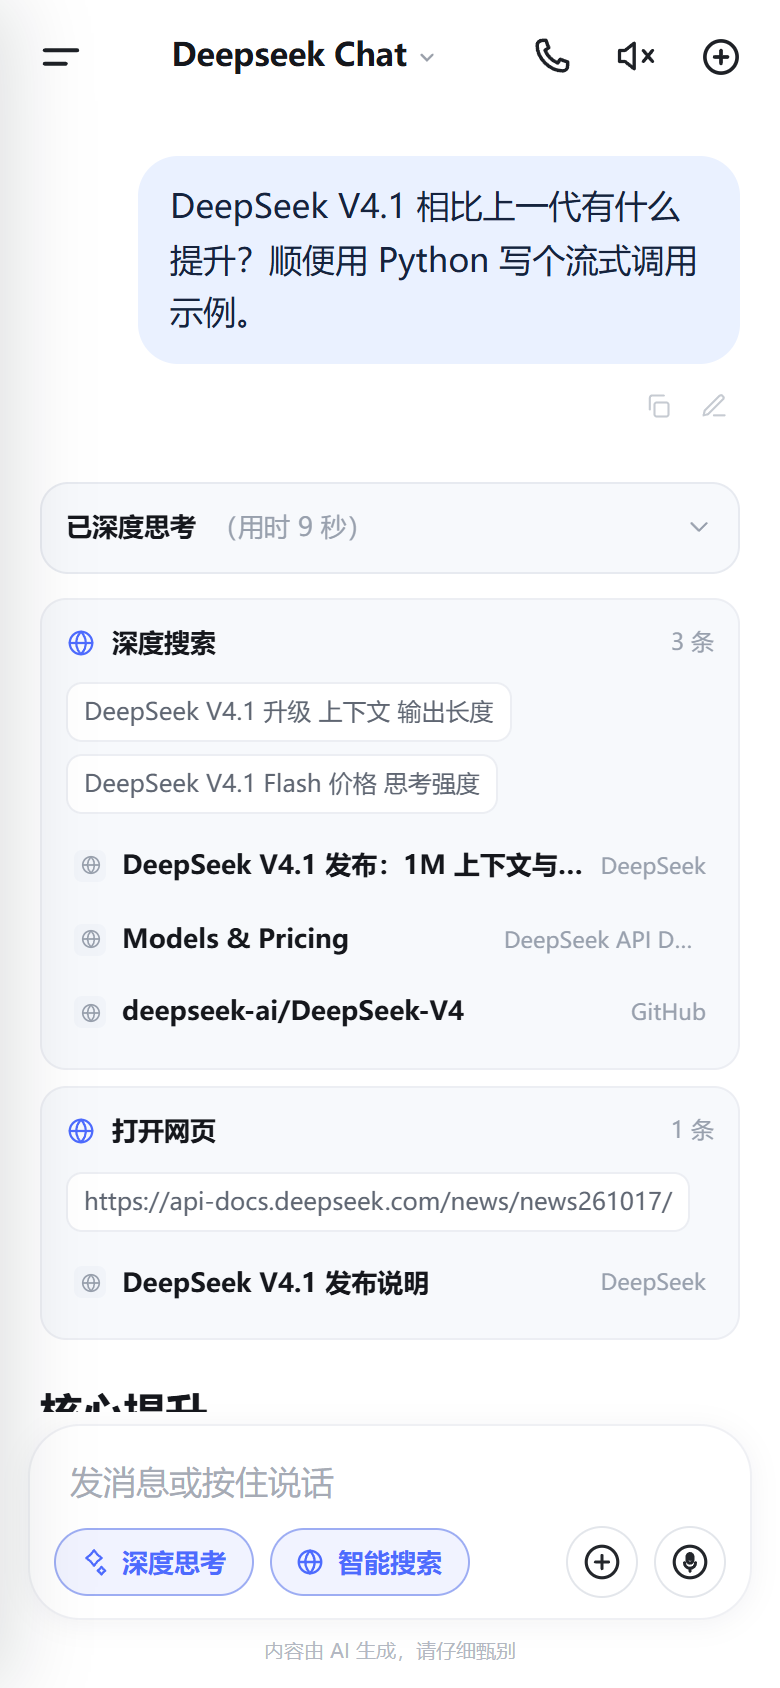
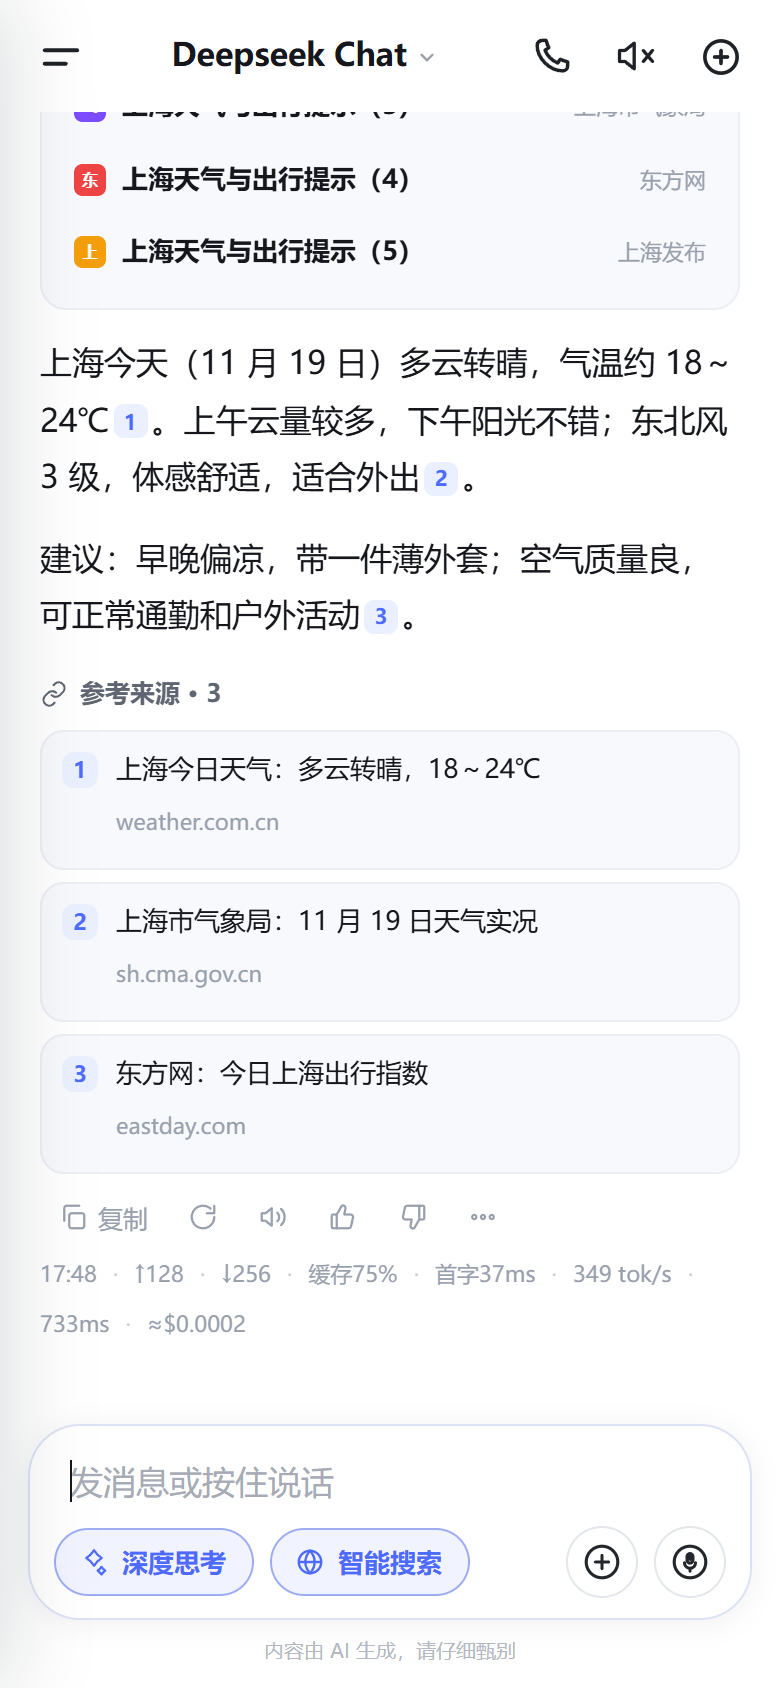
fix: 修正 TTS 误报、补全用量统计与全面屏手势
- voice: 释放音频前摘除监听，避免停止/切换时误弹「朗读失败」
- 用量：输入/输出/缓存/首字延迟/速度/耗时/费用；新增本地用量统计页（TTS 字符、ASR 时长与分项费用）
- Android：Android 11+ 全面屏 insets 注入 CSS 变量（状态栏/导航手势/刘海/输入法安全区）
- 手势：侧栏左滑关闭、底部抽屉下拉关闭、搜索与设置页左缘右滑返回、图片下滑关闭

diff --git a/public/js/settings.js b/public/js/settings.js
@@ -101,6 +101,7 @@ export function openSettings(ctx) {
     else if (cur.id === 'voice') renderVoice();
     else if (cur.id === 'about') renderAbout();
     else if (cur.id === 'system') renderSystem();
+    else if (cur.id === 'usage') renderUsage();
     bindCommon();
   };
 
@@ -142,6 +143,7 @@ export function openSettings(ctx) {
       <div class="group-card">
         ${rowLink({ ico: 'user', name: '账号管理', value: bal ? `${bal.currency === 'USD' ? '$' : '¥'}${bal.total}` : '', go: 'account' })}
         ${rowLink({ ico: 'data', name: '数据管理', go: 'data' })}
+        ${rowLink({ ico: 'data', name: '用量统计', desc: 'token / 缓存 / 语音 / 费用', value: '累计', go: 'usage' })}
       </div>
 
       <div class="group-label">应用</div>
@@ -294,6 +296,33 @@ export function openSettings(ctx) {
       <div class="settings-version">提示词只保存在本机，不经过任何服务器</div>`;
   }
 
+  function renderUsage() {
+    const u = ctx.getUsage();
+    const money = (v) => (v < 0.01 ? `<$0.01` : `${v.toFixed(3)}`);
+    const tok = (v) => (v < 1000 ? String(v) : v < 1e6 ? `${(v / 1000).toFixed(1)}K` : `${(v / 1e6).toFixed(2)}M`);
+    body.innerHTML = `
+      <div class="group-label">对话</div>
+      <div class="group-card">
+        <div class="set-row"><span class="row-main"><span class="row-name">输入 tokens</span></span><span class="row-value">${tok(u.promptTokens)}</span></div>
+        <div class="set-row"><span class="row-main"><span class="row-name">输出 tokens</span></span><span class="row-value">${tok(u.completionTokens)}</span></div>
+        <div class="set-row"><span class="row-main"><span class="row-name">缓存命中</span><span class="row-desc">命中 ${tok(u.cacheHitTokens)} / 输入 ${tok(u.promptTokens)}</span></span><span class="row-value">${(u.cacheRate * 100).toFixed(1)}%</span></div>
+        <div class="set-row"><span class="row-main"><span class="row-name">请求数</span></span><span class="row-value">${u.requests}</span></div>
+        <div class="set-row"><span class="row-main"><span class="row-name">模型费用</span><span class="row-desc">按非高峰价估算</span></span><span class="row-value">≈${money(u.modelCost)}</span></div>
+      </div>
+      <div class="group-label">语音</div>
+      <div class="group-card">
+        <div class="set-row"><span class="row-main"><span class="row-name">朗读合成</span><span class="row-desc">按计费字符（中文 2 / 其他 1），$0.45 每万字</span></span><span class="row-value">${u.ttsChars} 字 · ≈${money(u.ttsCost)}</span></div>
+        <div class="set-row"><span class="row-main"><span class="row-name">语音识别</span><span class="row-desc">$0.116 每小时</span></span><span class="row-value">${u.asrSeconds.toFixed(1)} 秒 · ≈${money(u.asrCost)}</span></div>
+      </div>
+      <div class="group-card" style="margin-top:14px">
+        <div class="set-row"><span class="row-main"><span class="row-name" style="font-weight:600">累计估算费用</span></span><span class="row-value" style="font-weight:600;color:var(--text)">≈${money(u.totalCost)}</span></div>
+      </div>
+      <div class="group-card" style="margin-top:14px">
+        ${rowLink({ ico: "info", name: "清空统计", desc: "只清本地统计，不影响对话", act: "clear-usage" })}
+      </div>
+      <div class="settings-version">统计只保存在本机；费用为估算，实际以开放平台账单为准</div>`;
+  }
+
   function renderAbout() {
     const info = ctx.getServerInfo?.() || {};
     body.innerHTML = `
@@ -315,7 +344,7 @@ export function openSettings(ctx) {
   const bindCommon = () => {
     body.querySelectorAll('[data-go]').forEach((el) => el.addEventListener('click', () => {
       const id = el.dataset.go;
-      const titles = { account: '账号管理', data: '数据管理', theme: '外观', font: '字体大小', lang: '语言', region: '地区', effort: '思考强度', voice: '语音', about: '关于', system: '系统提示词' };
+      const titles = { account: '账号管理', data: '数据管理', theme: '外观', font: '字体大小', lang: '语言', region: '地区', effort: '思考强度', voice: '语音', about: '关于', system: '系统提示词', usage: '用量统计' };
       push(id, titles[id] || '设置');
     }));
 

diff --git a/public/js/usage.js b/public/js/usage.js
@@ -1,0 +1,94 @@
+/* =========================================================================
+ * usage.js —— 本地用量统计（token / 缓存 / 语音 / 费用估算）
+ * 只存在设备上，不上报任何服务器；费用按官方价目表估算，仅供参考。
+ * ========================================================================= */
+
+const KEY = 'ds.usage';
+
+const EMPTY = {
+  requests: 0,
+  promptTokens: 0,
+  completionTokens: 0,
+  cacheHitTokens: 0,
+  modelCost: 0,       // USD
+  ttsChars: 0,        // 计费字符（中文按 2 计）
+  ttsCost: 0,
+  asrSeconds: 0,
+  asrCost: 0,
+  updatedAt: 0,
+};
+
+export function loadUsage() {
+  try {
+    const raw = localStorage.getItem(KEY);
+    return raw ? { ...EMPTY, ...JSON.parse(raw) } : { ...EMPTY };
+  } catch {
+    return { ...EMPTY };
+  }
+}
+
+function save(u) {
+  try { localStorage.setItem(KEY, JSON.stringify(u)); } catch { /* 配额满忽略 */ }
+  return u;
+}
+
+/** 计费字符：中文（含全角标点）按 2 计，其余按 1 */
+export function billedChars(text) {
+  let n = 0;
+  for (const ch of String(text || '')) {
+    n += /[\u2E80-\u9FFF\uF900-\uFAFF\uFF00-\uFFEF\u3000-\u303F]/.test(ch) ? 2 : 1;
+  }
+  return n;
+}
+
+/** 累计一次对话用量（按 deepseek-flash / v4-pro 非高峰价估算） */
+export function addChat(usage, model = 'deepseek-flash') {
+  const u = loadUsage();
+  if (usage) {
+    const prompt = usage.prompt_tokens || 0;
+    const cache = usage.prompt_cache_hit_tokens ?? usage.prompt_tokens_details?.cached_tokens ?? 0;
+    const completion = usage.completion_tokens || 0;
+    const pro = model === 'deepseek-v4-pro';
+    const inRate = pro ? 0.66 : 0.15;
+    const outRate = pro ? 1.98 : 0.6;
+    const cacheRate = pro ? 0.022 : 0.003;
+    u.promptTokens += prompt;
+    u.completionTokens += completion;
+    u.cacheHitTokens += cache;
+    u.modelCost += ((prompt - cache) * inRate + cache * cacheRate + completion * outRate) / 1e6;
+  }
+  u.requests += 1;
+  u.updatedAt = Date.now();
+  return save(u);
+}
+
+/** 累计 TTS：按计费字符，$0.45 / 万字符 */
+export function addTTS(text) {
+  const chars = billedChars(text);
+  const u = loadUsage();
+  u.ttsChars += chars;
+  u.ttsCost += (chars / 10000) * 0.45;
+  u.updatedAt = Date.now();
+  return save(u);
+}
+
+/** 累计 ASR：按时长，$0.116 / 小时 */
+export function addASR(seconds) {
+  const sec = Math.max(0, Number(seconds) || 0);
+  const u = loadUsage();
+  u.asrSeconds += sec;
+  u.asrCost += (sec / 3600) * 0.116;
+  u.updatedAt = Date.now();
+  return save(u);
+}
+
+export function resetUsage() {
+  return save({ ...EMPTY, updatedAt: Date.now() });
+}
+
+export function summary() {
+  const u = loadUsage();
+  const totalCost = u.modelCost + u.ttsCost + u.asrCost;
+  const cacheRate = u.promptTokens ? u.cacheHitTokens / u.promptTokens : 0;
+  return { ...u, totalCost, cacheRate };
+}

diff --git a/public/js/chat.js b/public/js/chat.js
@@ -384,6 +384,38 @@ function renderThinkBlock(b, idx, openSet) {
   </div>`;
 }
 
+function fmtDur(ms) {
+  if (!ms || ms < 0) return "";
+  if (ms < 1000) return `${ms}ms`;
+  const s = ms / 1000;
+  if (s < 60) return `${s.toFixed(1)}s`;
+  return `${Math.floor(s / 60)}m${Math.round(s % 60)}s`;
+}
+
+/** 消息底部：↑输入 ↓输出 · 缓存命中 · 首字延迟 · 速度 · 估算费用 */
+function buildUsageFoot(msg) {
+  const u = msg.usage || {};
+  const input = u.prompt_tokens || 0;
+  const output = u.completion_tokens || 0;
+  const cache = u.prompt_cache_hit_tokens ?? u.prompt_tokens_details?.cached_tokens ?? 0;
+  const reasoning = u.completion_tokens_details?.reasoning_tokens || 0;
+  const cachePct = input ? Math.round((cache / input) * 100) : 0;
+  const secs = msg.durationMs ? msg.durationMs / 1000 : 0;
+  const speed = secs > 0 ? Math.round(output / secs) : 0;
+  const cost = estimateCost(u, msg.model);
+  const parts = [
+    `<span class="usage" title="输入 ${input} tokens">↑${formatTokens(input)}</span>`,
+    `<span class="usage" title="输出 ${output} tokens">↓${formatTokens(output)}</span>`,
+  ];
+  if (input) parts.push(`<span class="usage" title="缓存命中 ${cache} / ${input}（prompt_cache_hit_tokens）">缓存${cachePct}%</span>`);
+  if (reasoning) parts.push(`<span class="usage" title="思考 token">思考${formatTokens(reasoning)}</span>`);
+  if (msg.firstTokenMs) parts.push(`<span class="usage" title="首字延迟">首字${fmtDur(msg.firstTokenMs)}</span>`);
+  if (speed) parts.push(`<span class="usage" title="输出速度">${speed} tok/s</span>`);
+  if (msg.durationMs) parts.push(`<span class="usage">${fmtDur(msg.durationMs)}</span>`);
+  if (cost) parts.push(`<span class="usage" title="按非高峰价估算">≈${formatCost(cost)}</span>`);
+  return parts.join(`<span class="dot">·</span>`);
+}
+
 function actionTitle(s) {
   if (s.error) return '搜索失败';
   if (s.action === 'read_link') return '阅读链接';
@@ -574,7 +606,7 @@ export class ChatView {
     const citations = collectCitations(msg);
     const usage = msg.usage;
     const cost = usage ? formatCost(estimateCost(usage, msg.model)) : '';
-    const tokens = usage ? `${formatTokens(usage.completion_tokens)} tok` : '';
+    const foot = usage ? buildUsageFoot(msg) : '';
     return `<div class="msg assistant" data-id="${msg.id}" data-streaming="${streaming ? '1' : '0'}">
 
       <div class="asst-body">${body}</div>
@@ -588,7 +620,7 @@ export class ChatView {
       </div>
       <div class="msg-foot">
         <span>${formatTime(msg.createdAt)}</span>
-        ${usage && msg.status !== 'streaming' ? `<span class="dot">·</span><span class="usage">${tokens}</span>${cost ? `<span class="dot">·</span><span class="usage">≈${cost}</span>` : ''}` : ''}
+        ${usage && msg.status !== 'streaming' ? `<span class="dot">·</span>${foot}` : ''}
       </div>
     </div>`;
   }

diff --git a/public/js/app.js b/public/js/app.js
@@ -4,6 +4,7 @@
 
 import { createClient, normalizeBalance, isNativeShell } from './api.js';
 import { createMockClient } from './mock-client.js';
+import { addChat, addTTS, addASR, summary, resetUsage } from './usage.js';
 import { store } from './store.js';
 import { ChatView, composeRequestBody, applyChunk } from './chat.js';
 import { openSettings, openModelSheet, maskKey } from './settings.js';
@@ -375,7 +376,11 @@ async function runAssistant() {
       signal: ctrl.signal,
       onEvent: (chunk) => {
         if (chunk.done) return;
-        applyChunk(asst, chunk);
+        const touched = applyChunk(asst, chunk);
+        asst.durationMs = Date.now() - startedAt;
+        if (!asst.firstTokenMs && (touched === 'content' || touched === 'reasoning')) {
+          asst.firstTokenMs = Date.now() - startedAt;
+        }
         if (asst.title && !session.titleGenerated) {
           session.title = String(asst.title).slice(0, 120);
           session.titleGenerated = true;
@@ -445,6 +450,7 @@ function afterAnswer(asst, startedAt, { partial = false } = {}) {
   updateChrome();
   sidebar.render(S.sessions, session.id);
   persistCurrent();
+  try { addChat(asst.usage, asst.model); } catch { /* 统计失败不影响使用 */ }
   if (!partial && asst.content && S.settings.autoRead) speakMessage(asst);
 }
 
@@ -594,6 +600,7 @@ async function finishVoice() {
     $('#rec-hint').textContent = '调用 ASR 识别中…';
     const res = await S.client.asr(out.blob);
     const text = (res?.text || '').trim();
+    try { addASR((res?.duration_ms || out.durationMs) / 1000); } catch { /* ignore */ }
     hideRecorder();
     if (!text) { toast('没有识别到内容'); return; }
     const input = $('#input');
@@ -662,6 +669,7 @@ async function speakMessage(msg) {
   }
   S.tts.stop();
   S.speakingId = msg.id;
+  try { addTTS(text); } catch { /* ignore */ }
   try {
     await S.tts.speak(text, {
       voiceId: S.settings.ttsVoice,
@@ -817,6 +825,8 @@ function settingsCtx() {
     setNickname: (v) => { store.saveSettings({ nickname: v }); S.settings = store.settings; updateChrome(); },
     getVersion: () => S.serverInfo?.version || VERSION,
     getServerInfo: () => S.serverInfo,
+    getUsage: () => summary(),
+    resetUsage,
     openModelSheet: () => openModelSheet(settingsCtx()),
     sessionHasImages: () => !!S.session?.messages.some((m) => m.attachments?.some((a) => a.kind === 'image')),
     syncSpeakerIcon,

diff --git a/public/js/voice.js b/public/js/voice.js
@@ -287,6 +287,8 @@ export class TTSPlayer {
         else this._finish();
       });
       audio.addEventListener('error', () => {
+        // 主动停止/切换时浏览器会抛空 src 的 error，忽略
+        if (this.state === 'idle' || this.stopping) return;
         this._revoke();
         this.onError?.(new Error('音频播放失败'));
         this._finish();
@@ -314,8 +316,18 @@ export class TTSPlayer {
   }
 
   _revoke() {
+    // 先摘掉事件监听，再释放 src：直接置空会触发 error 事件，导致"播放成功却报失败"
+    if (this.audio) {
+      try {
+        this.audio.onended = null;
+        this.audio.onerror = null;
+        this.audio.pause();
+        this.audio.removeAttribute('src');
+        this.audio.load();
+      } catch { /* ignore */ }
+      this.audio = null;
+    }
     if (this.url) { URL.revokeObjectURL(this.url); this.url = null; }
-    if (this.audio) { this.audio.src = ''; this.audio = null; }
   }
 
   _finish() {
@@ -326,6 +338,7 @@ export class TTSPlayer {
   }
 
   stop() {
+    this.stopping = true;
     try { this.abort?.abort(); } catch { /* ignore */ }
     this.abort = null;
     this._revoke();
@@ -333,5 +346,6 @@ export class TTSPlayer {
     this.index = 0;
     if (this.state !== 'idle') this._emit('idle');
     this.state = 'idle';
+    this.stopping = false;
   }
 }

diff --git a/public/css/app.css b/public/css/app.css
@@ -41,8 +41,8 @@
   --shadow-1: 0 1px 2px rgba(17, 24, 39, .04), 0 4px 16px rgba(17, 24, 39, .05);
   --shadow-2: 0 12px 36px rgba(17, 24, 39, .12);
   --topbar-h: 54px;
-  --safe-top: env(safe-area-inset-top, 0px);
-  --safe-bottom: env(safe-area-inset-bottom, 0px);
+  --safe-top: var(--inset-top, env(safe-area-inset-top, 0px));
+  --safe-bottom: var(--inset-bottom, env(safe-area-inset-bottom, 0px));
   --app-h: 100dvh;
   --fs-base: 16px;
 

diff --git a/android/app/src/com/deepseek/pocket/MainActivity.java b/android/app/src/com/deepseek/pocket/MainActivity.java
@@ -10,6 +10,7 @@ import android.content.Context;
 import android.content.Intent;
 import android.content.pm.PackageManager;
 import android.graphics.Color;
+import android.graphics.Insets;
 import android.net.Uri;
 import android.os.Build;
 import android.os.Bundle;
@@ -18,6 +19,7 @@ import android.provider.MediaStore;
 import android.util.Log;
 import android.view.View;
 import android.view.Window;
+import android.view.WindowInsets;
 import android.view.WindowManager;
 import android.webkit.ConsoleMessage;
 import android.webkit.JavascriptInterface;
@@ -98,6 +100,7 @@ public class MainActivity extends Activity {
 
         web.setWebViewClient(new Client());
         web.setWebChromeClient(new Chrome());
+        setupEdgeToEdge();
         web.addJavascriptInterface(new Bridge(), "DSAndroid");
         if (Build.VERSION.SDK_INT >= 19) WebView.setWebContentsDebuggingEnabled(true);
 
@@ -109,6 +112,42 @@ public class MainActivity extends Activity {
             boolean demo = it != null && it.getBooleanExtra("demo", false);
             web.loadUrl(demo ? START_URL + "?demo=1" : START_URL);
         }
+    }
+
+    /* --------------------------- 全面屏与手势 --------------------------- */
+
+    /**
+     * 全面屏手势适配：让内容延伸到系统栏下方，再用 padding 精确避让
+     * 状态栏 / 导航栏 / 刘海 / 输入法，这样底部手势区和输入框不会互相遮挡。
+     */
+    private void setupEdgeToEdge() {
+        if (Build.VERSION.SDK_INT < 30) return;               // Android 11+ 才支持 WindowInsets.Type
+        Window win = getWindow();
+        win.setDecorFitsSystemWindows(false);
+        win.setStatusBarColor(Color.TRANSPARENT);
+        win.setNavigationBarColor(Color.TRANSPARENT);
+        web.setFitsSystemWindows(false);
+        web.setOnApplyWindowInsetsListener((v, insets) -> {
+            Insets bars = insets.getInsets(
+                    WindowInsets.Type.systemBars() | WindowInsets.Type.displayCutout());
+            Insets ime = insets.getInsets(WindowInsets.Type.ime());
+            float d = getResources().getDisplayMetrics().density;
+            float top = bars.top / d;
+            float bottom = Math.max(bars.bottom, ime.bottom) / d;
+            float left = bars.left / d;
+            float right = bars.right / d;
+            // 页面用 CSS 变量自行避让：全面屏手势区、状态栏、刘海、输入法都不会遮住内容
+            String js = String.format(
+                    "(function(){var r=document.documentElement.style;" +
+                            "r.setProperty('--inset-top','%.1fpx');" +
+                            "r.setProperty('--inset-bottom','%.1fpx');" +
+                            "r.setProperty('--inset-left','%.1fpx');" +
+                            "r.setProperty('--inset-right','%.1fpx');})()",
+                    top, bottom, left, right);
+            web.evaluateJavascript(js, null);
+            return insets;
+        });
+        web.requestApplyInsets();
     }
 
     /* ------------------------------ 系统栏 ------------------------------ */

diff --git a/README.md b/README.md
@@ -21,9 +21,9 @@
 | --- | --- | --- |
 | ![设置](docs/screenshots/08-settings.png) | ![系统提示词](docs/screenshots/09-system-prompt.png) | ![模型](docs/screenshots/10-model.png) |
 
-| 独立搜索 | 深色模式 | 登录 |
+| 独立搜索 | 深色模式 | 用量统计 |
 | --- | --- | --- |
-| ![搜索](docs/screenshots/11-search.png) | ![深色](docs/screenshots/12-dark.png) | ![登录](docs/screenshots/01-login.png) |
+| ![搜索](docs/screenshots/11-search.png) | ![深色](docs/screenshots/12-dark.png) | ![用量](docs/screenshots/14-usage.png) |
 
 | Android APK 实机 |
 | --- |
